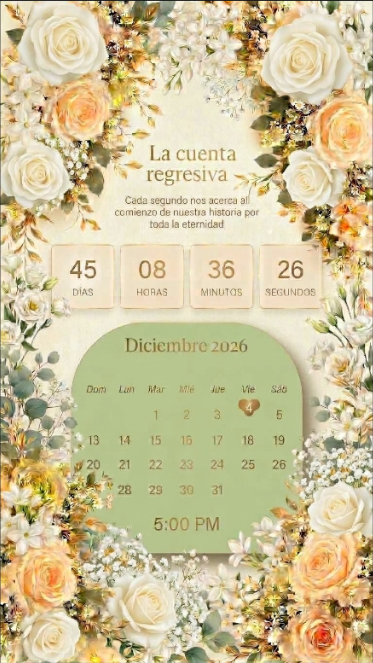
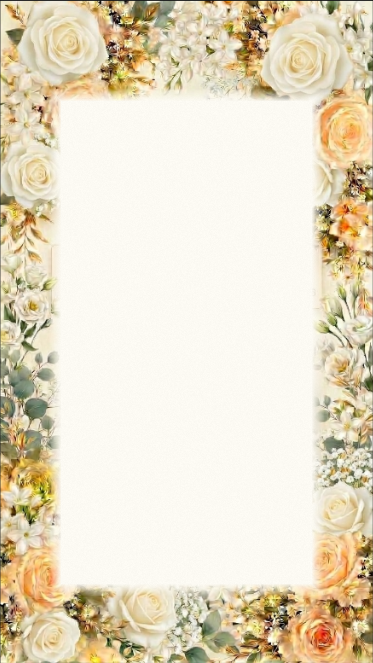
Create blank floral countdown background

diff --git a/index.html b/index.html
@@ -35,7 +35,8 @@ section{padding:72px 22px}.wrap{max-width:940px;margin:auto}.section-title{text-
 .countdown-section:before{content:none}
 .countdown-card{position:relative;isolation:isolate;overflow:hidden;width:100%;max-width:420px;aspect-ratio:373/663;background:#f6efdd url('assets/cuenta-regresiva-marco.png') center/100% 100% no-repeat;border-radius:14px;box-shadow:0 15px 35px #0000001f}
 .countdown-card .wrap{position:absolute;inset:0;width:auto;max-width:none;margin:0;padding:0}
-.countdown-card .section-title.sr-only,.countdown-card .subtitle.sr-only{position:absolute;width:1px;height:1px;padding:0;margin:-1px;overflow:hidden;clip-path:inset(50%);white-space:nowrap;border:0}
+.countdown-card .section-title{position:absolute;top:20.5%;left:12%;width:76%;margin:0;color:#92733c;font:600 clamp(24px,6.5vw,31px)/.95 'Cormorant Garamond',Georgia,serif;letter-spacing:0;text-transform:none}
+.countdown-card .subtitle{position:absolute;top:29%;left:13%;width:74%;max-width:none;margin:0;color:#786743;font:400 clamp(10px,2.8vw,13px)/1.25 'Montserrat',Arial,sans-serif}
 .countdown{position:absolute;top:36.5%;left:15%;display:flex;justify-content:center;gap:5px;width:70%;max-width:none;margin:0}
 .countdown .unit{width:auto;flex:1 1 0;min-width:0;background:#f7efd9;color:#a38143;padding:14px 0 13px;text-align:center;border:1px solid rgba(184,151,88,.45);border-radius:9px;box-shadow:0 3px 8px #0000000a}
 .countdown .unit strong{display:block;font-family:'Cormorant Garamond',Georgia,serif;font-size:clamp(21px,6vw,27px);font-weight:600;line-height:1.05}
@@ -114,8 +115,8 @@ footer .small{margin-top:8px;color:#fff8e8;font:600 22px/1.5 'DM Sans',Arial,san
     <section class="countdown-section">
       <div class="countdown-card">
         <div class="wrap">
-          <h2 class="section-title sr-only">La cuenta regresiva</h2>
-          <p class="subtitle sr-only">Cada segundo nos acerca al comienzo de nuestra historia por toda la eternidad.</p>
+          <h2 class="section-title">La cuenta<br>regresiva</h2>
+          <p class="subtitle">Cada segundo nos acerca al<br>comienzo de nuestra historia por<br>toda la eternidad.</p>
           <div class="countdown" aria-label="Cuenta regresiva">
             <div class="unit"><strong id="days">--</strong><span>Días</span></div>
             <div class="unit"><strong id="hours">--</strong><span>Horas</span></div>
